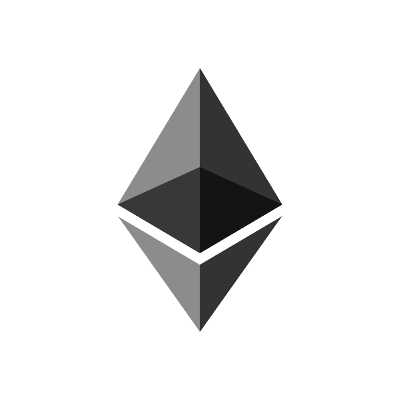
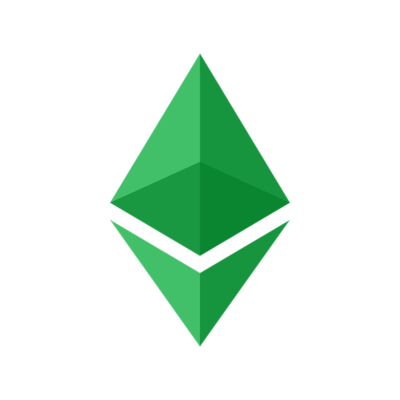
App header WIP.

Changed region(s): [[0.27, 0.12, 0.72, 0.87]]

diff --git a/src/app/components/app-header/app-header.component.html b/src/app/components/app-header/app-header.component.html
@@ -1,5 +1,19 @@
 <div *ngIf=authenticationService.isAuthenticated()>
     <div class="header-container">
-        Logged in.
+        <div class="logo-column">
+            <div class="image-row">
+                <div class="logo-container">
+                    <img class="ethereum-logo img-fluid" src="../../../assets/images/ethereum-icon.png" />
+                </div>
+            </div>
+        </div>
+        <div class="header-column">
+            <div class="current-user-row">
+                <span class="current-user">Hello {{username}}!</span>
+            </div>
+            <div class="header-row">
+
+            </div>
+        </div>
     </div>
 </div>

diff --git a/src/app/components/app-header/app-header.component.scss b/src/app/components/app-header/app-header.component.scss
@@ -3,3 +3,41 @@
     position: relative;
     z-index: 1;
 }
+
+.logo-column {
+    width: 10%;
+}
+
+.logo-container {
+    padding-left: 12px;
+    padding-top: 5px;
+}
+
+.header-column {
+    width: 90%;
+}
+
+img.ethereum-logo {
+    width: 60px;
+    height: 60px;
+}
+
+.image-row {
+    background-color:#0C374D;
+    height: 80px;
+    display: flex;
+    align-items: center;
+}
+
+.current-user-row {
+    background-color:#0C374D;
+    height: 80px;
+    display: flex;
+    align-items: center;
+}
+
+span.current-user {
+    color: white;
+    font-size: 20px;
+    margin-right: 4px;
+}

diff --git a/src/app/app.component.ts b/src/app/app.component.ts
@@ -10,8 +10,8 @@ export class AppComponent {
 
   constructor(private authenticationService: AuthenticationService) {}
 
-  @HostListener('window:beforeunload')
-  autoLogout() {
-    this.authenticationService.logout();
-  }
+  // @HostListener('window:beforeunload')
+  // autoLogout() {
+  //   this.authenticationService.logout();
+  // }
 }

diff --git a/src/app/components/register/register.component.ts b/src/app/components/register/register.component.ts
@@ -38,7 +38,7 @@ export class RegisterComponent implements OnInit, OnDestroy, AfterViewInit {
     }
 
     ngAfterViewInit() {
-        this.elementRef.nativeElement.ownerDocument.body.style.backgroundColor = '#2e4a62';
+        this.elementRef.nativeElement.ownerDocument.body.style.backgroundColor = '#0C374D';
     }
 
     get form() {
